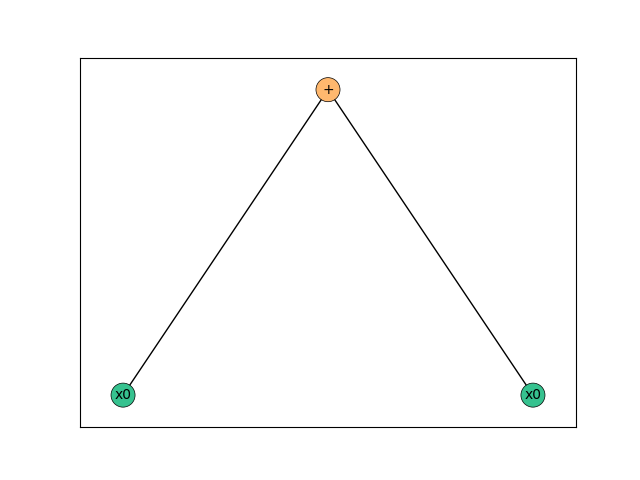
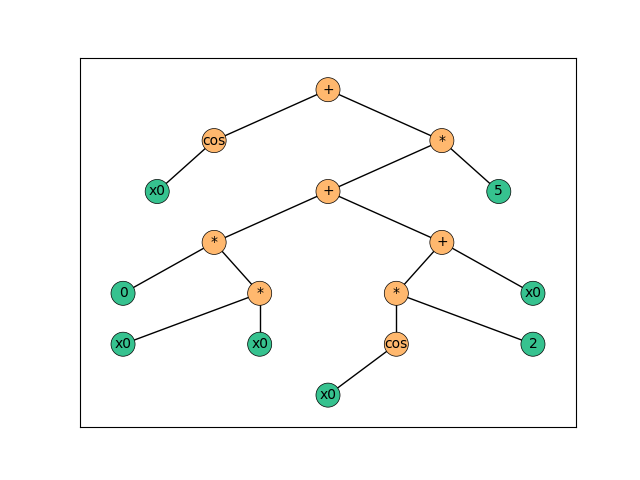
gp

diff --git a/src/thefittest/optimizers/_base.py b/src/thefittest/optimizers/_base.py
@@ -185,6 +185,9 @@ class Tree:
     
     def copy(self):
         return Tree(self.nodes.copy(), self.levels.copy())
+    
+    def get_max_level(self):
+        return np.max(self.levels)
 
 
 class FunctionalNode:
@@ -213,12 +216,11 @@ class TerminalConstantNode:
 
 
 class UniversalSet:
-    def __init__(self, functional_set, terminal_set, constant_set=None):
+    def __init__(self, functional_set, terminal_set, constant_set=[]):
         functional_set = list(map(FunctionalNode, functional_set))
         terminal_set = list(TerminalNode(value, key)
                             for key, value in terminal_set.items())
-        if constant_set is not None:
-            constant_set = list(map(TerminalConstantNode, constant_set))
+        constant_set = list(map(TerminalConstantNode, constant_set))
         self.functional_set = {}
         for unit in functional_set:
             n_args = unit.n_args
@@ -229,36 +231,35 @@ class UniversalSet:
         self.functional_set['any'] = functional_set
         self.terminal_set = terminal_set
         self.constant_set = constant_set
+        self.union_terminal = terminal_set + constant_set
 
     def choice_terminal(self):
-        if self.constant_set is not None:
-            if np.random.random() < 0.5:
-                return random.choice(self.terminal_set)
-            else:
-                return random.choice(self.constant_set)
-        else:
-            return random.choice(self.terminal_set)
+        return random.choice(self.union_terminal)
 
     def choice_functional(self, n_args='any'):
-        return random.choice(list(self.functional_set[n_args]))
+        return random.choice(self.functional_set[n_args])
 
     def mutate_terminal(self, terminal):
-        if len(self.terminal_set) > 1:
+        if len(self.union_terminal) > 1:
             remains = list(filter(lambda x: x != terminal,
-                                  self.terminal_set))
+                                  self.union_terminal))
             to_return = random.choice(remains)
         else:
-            to_return = list(self.terminal_set)[0]
+            to_return = self.union_terminal[0]
         return to_return
 
     def mutate_constant(self, constant):
-        if len(self.constant_set) > 1:
-            remains = list(filter(lambda x: x != constant,
-                                  self.constant_set))
-            to_return = random.choice(remains)
-        else:
-            to_return = list(self.constant_set)[0]
-        return to_return
+        new_value = np.random.normal(constant.value, 1)
+        return TerminalConstantNode(new_value)
+
+    # def mutate_constant(self, constant):
+    #     if len(self.constant_set) > 1:
+    #         remains = list(filter(lambda x: x != constant,
+    #                               self.constant_set))
+    #         to_return = random.choice(remains)
+    #     else:
+    #         to_return = list(self.constant_set)[0]
+    #     return to_return
 
     def mutate_functional(self, functional):
         n_args = functional.n_args
@@ -267,5 +268,5 @@ class UniversalSet:
                                   self.functional_set[n_args]))
             to_return = random.choice(remains)
         else:
-            to_return = list(self.functional_set[n_args])[0]
+            to_return = self.functional_set[n_args][0]
         return to_return

diff --git a/src/thefittest/optimizers/_geneticprogramming.py b/src/thefittest/optimizers/_geneticprogramming.py
@@ -15,11 +15,42 @@ from ._crossovers import one_point_crossoverGP
 from ._crossovers import standart_crossover
 from ._mutations import point_mutation
 from ._mutations import growing_mutation
+from ._mutations import constant_gauss_mutation
 from ._initializations import half_and_half
 from ..tools import scale_data
 from ..tools import rank_data
 from functools import partial
 
+# class Statistics:
+#     def __init__(self):
+#         self.population_g = np.array([])
+#         self.population_ph = np.array([])
+#         self.fitness = np.array([])
+
+#     def append_arr(self, arr_to, arr_from):
+#         shape_to = (-1, arr_from.shape[0], arr_from.shape[1])
+#         shape_from = (1, arr_from.shape[0], arr_from.shape[1])
+#         result = np.vstack([arr_to.reshape(shape_to),
+#                             arr_from.copy().reshape(shape_from)])
+#         return result
+
+#     def update(self,
+#                population_g_i: np.ndarray,
+#                population_ph_i: np.ndarray,
+#                fitness_i: np.ndarray):
+
+#         self.population_g = self.append_arr(self.population_g,
+#                                             population_g_i)
+#         self.population_ph = self.append_arr(self.population_ph,
+#                                              population_ph_i)
+#         self.fitness = np.append(self.fitness, np.max(fitness_i))
+#         return self
+# class StatisticsGP:
+#     def __init__(self):
+#         self.population_g = np.array([])
+#         self.population_ph = np.array([])
+#         self.fitness = np.array([])
+#         self.
 
 class GeneticProgramming(EvolutionaryAlgorithm):
     def __init__(self,
@@ -49,7 +80,7 @@ class GeneticProgramming(EvolutionaryAlgorithm):
             keep_history=keep_history)
 
         self.uniset = uniset
-        self.tour_size = 2
+        self.tour_size = 5
         self.max_level = 15
         self.initial_population = None
         self.thefittest: TheFittest
@@ -67,10 +98,13 @@ class GeneticProgramming(EvolutionaryAlgorithm):
                        'strong_point': (point_mutation, 4),
                        'weak_grow': (growing_mutation, 0),
                        'average_grow': (growing_mutation, 1),
-                       'strong_grow': (growing_mutation, 4)}
+                       'strong_grow': (growing_mutation, 4),
+                       'weak_gauss': (constant_gauss_mutation, 0.25),
+                       'average_gauss': (constant_gauss_mutation, 1),
+                       'strong_gauss': (constant_gauss_mutation, 4)}
         
         self.s_set = self.s_pool['tournament']
-        self.c_set = self.c_pool['one_point']
+        self.c_set = self.c_pool['standart']
         self.m_set = self.m_pool['weak_grow']
 
 #добавить сюда max_level
@@ -130,6 +164,9 @@ class GeneticProgramming(EvolutionaryAlgorithm):
         #                                      fitness)
         for i in range(self.iters-1):
             self.show_progress(i)
+            levels = [tree.get_max_level() for tree in population_g]
+            print('levels', np.max(levels), np.mean(levels))
+            print('fitness', np.max(fitness), np.mean(fitness))
             if self.termitation_check(lastbest.no_increase):
                 break
             else:

diff --git a/src/test_gp.py b/src/test_gp.py
@@ -94,11 +94,11 @@ def problem(x):
 
 left = -10
 right = 10
-size = 1000
+size = 100
 n_vars = 1
 X = np.random.uniform(left, right, size=(size, n_vars))
 y = problem(X)
-y = y + np.random.uniform(0, 10, len(X))
+# y = y + np.random.uniform(0, 10, len(X))
 
 X_train, X_test, y_train, y_test = train_test_split(
     X, y, test_size=0.33, random_state=42)
@@ -110,21 +110,26 @@ uniset = UniversalSet(functional_set=(Add(),
                                     #   Neg()
                                       ),
                       terminal_set={'x0': X_train[:, 0]},
-                      constant_set=(0, 1, 2, 3, 4, 5, 6, 7, 8, 9))
+                      constant_set=(range(10)))
 
 
 def fitness_function(trees):
     fitness = []
     for tree in trees:
         y_pred = tree.compile()*np.ones(len(y_train))
-        fitness.append(root_mean_square_error(y_train, y_pred))
+        level = tree.get_max_level()
+        if level > 25:
+            fine = 0.1*level
+        else:
+            fine = 0.
+        fitness.append(root_mean_square_error(y_train, y_pred) + fine)
     return np.array(fitness)
 
 
 model = GeneticProgramming(fitness_function=fitness_function,
                            genotype_to_phenotype=donothing,
                            uniset=uniset,
-                           pop_size=100, iters=100,
+                           pop_size=200, iters=100,
                            show_progress_each=10,
                            minimization=True)
 

diff --git a/src/thefittest/optimizers/_mutations.py b/src/thefittest/optimizers/_mutations.py
@@ -1,6 +1,7 @@
 import numpy as np
 from ._base import Tree
 from ._base import FunctionalNode
+from ._base import TerminalConstantNode
 from ._initializations import growing_method
 
 
@@ -79,10 +80,7 @@ def point_mutation(some_tree, uniset,
         
         if np.random.random() < proba:
             if type(node) != FunctionalNode:
-                if np.random.random() < 0.5:
-                    new_node = uniset.mutate_terminal(node)
-                else:
-                    new_node = uniset.mutate_constant(node)
+                new_node = uniset.mutate_terminal(node)
             else:
                 new_node = uniset.mutate_functional(node)
             nodes[i] = new_node
@@ -90,6 +88,19 @@ def point_mutation(some_tree, uniset,
     new_tree = Tree(nodes, levels)
     return new_tree
 
+def constant_gauss_mutation(some_tree, uniset,
+                   proba_down, growing_method=None):
+    nodes = some_tree.nodes.copy()
+    levels = some_tree.levels.copy()
+
+    proba = proba_down/len(nodes)
+    for i, node in enumerate(nodes):
+        if type(node) == TerminalConstantNode:
+            if np.random.random() < proba:
+                nodes[i] = uniset.mutate_constant(node)
+
+    new_tree = Tree(nodes, levels)
+    return new_tree
 
 def growing_mutation(some_tree, uniset,
                      proba_down, growing_method=growing_method):

diff --git a/src/thefittest/optimizers/_crossovers.py b/src/thefittest/optimizers/_crossovers.py
@@ -81,8 +81,8 @@ def binomial(individ, mutant, CR):
 def standart_crossover(individs, fitness, rank):
     individ_1 = individs[0]
     individ_2 = individs[1]
-    first_point = np.random.randint(0,  len(individ_1.nodes))
-    second_point = np.random.randint(0,  len(individ_2.nodes))
+    first_point = np.random.randint(1,  len(individ_1.nodes))
+    second_point = np.random.randint(1,  len(individ_2.nodes))
 
     if np.random.random() < 0.5:
         left, right = individ_1.subtree(first_point)

diff --git a/src/thefittest/optimizers/_initializations.py b/src/thefittest/optimizers/_initializations.py
@@ -46,6 +46,11 @@ def growing_method(uniset, level_max):
 
         if level_i == level_max:
             nodes.append(uniset.choice_terminal())
+        elif level_i == 0:
+            nodes.append(uniset.choice_functional())
+            n_i = nodes[-1].n_args
+            possible_steps.append(n_i)
+            previous_levels.append(level_i)
         else:
             if np.random.random() < 0.5:
                 nodes.append(uniset.choice_terminal())

diff --git a/src/thefittest/optimizers/_selfcgp.py b/src/thefittest/optimizers/_selfcgp.py
@@ -1,0 +1,14 @@
+import numpy as np
+from typing import Optional
+from typing import Callable
+from typing import Any
+from ._geneticprogramming import GeneticProgramming
+from ..tools import scale_data
+from ..tools import rank_data
+from functools import partial
+from ._base import TheFittest
+from ._base import Statistics
+from ._base import LastBest
+from ..tools import numpy_group_by
+
+
